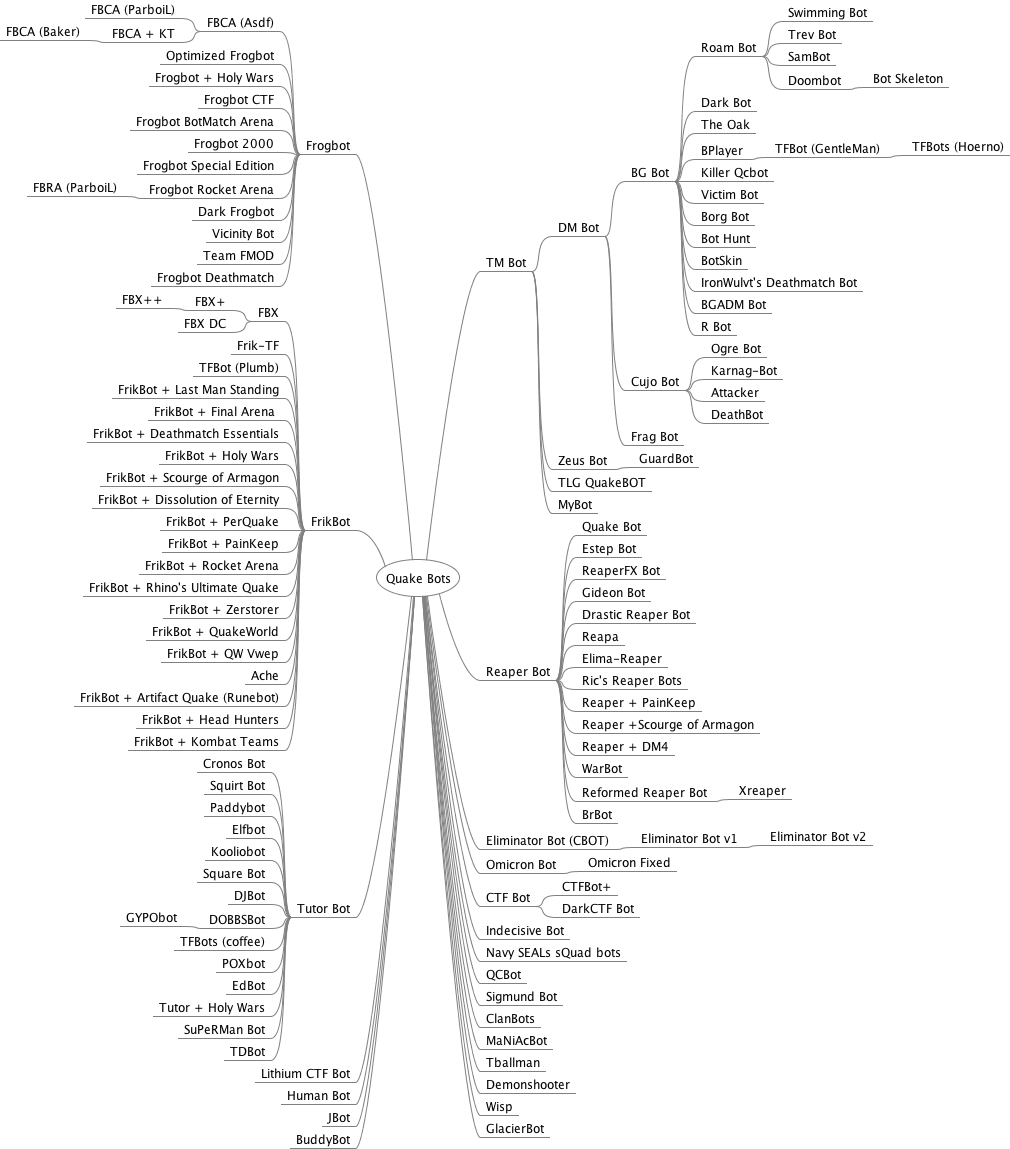
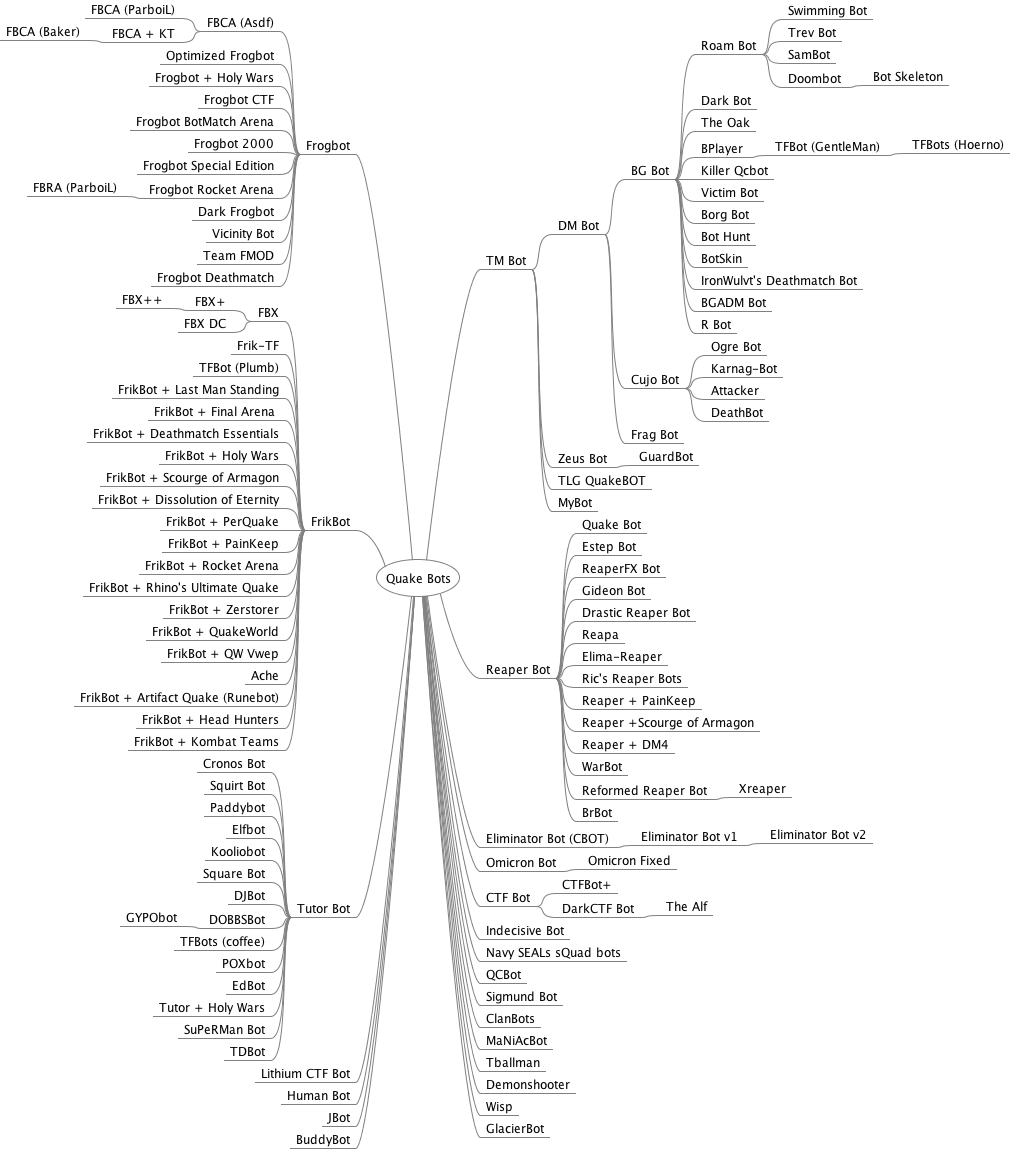
added The Alf

diff --git a/mindmap/QuakeBots.mm b/mindmap/QuakeBots.mm
@@ -70,7 +70,9 @@
 </node>
 <node CREATED="1622845045776" ID="ID_1986135603" MODIFIED="1622845048070" POSITION="right" TEXT="CTF Bot">
 <node CREATED="1622845697447" ID="ID_295541926" MODIFIED="1622845698926" TEXT="CTFBot+"/>
-<node CREATED="1622869025932" ID="ID_1714762036" MODIFIED="1622869314222" TEXT="DarkCTF Bot"/>
+<node CREATED="1622869025932" ID="ID_1714762036" MODIFIED="1622869314222" TEXT="DarkCTF Bot">
+<node CREATED="1624412666759" ID="ID_376907642" MODIFIED="1624412667481" TEXT="The Alf"/>
+</node>
 </node>
 <node CREATED="1622514920508" ID="ID_432501820" MODIFIED="1623200457048" POSITION="left" TEXT="Frogbot">
 <node CREATED="1622847095651" ID="ID_726455203" MODIFIED="1623196902129" TEXT="FBCA (Asdf)">

diff --git a/README.md b/README.md
@@ -131,6 +131,7 @@ Team Fortress Bots | Darryl Atchison aka "coffee" | [tf_bots07.zip](bin/tf_bots0
 TFBot | "Plumb" | ?
 TFBots | Joern Strombach aka "Hoerno" | [tfbot080.zip](bin/tfbot080.zip) (-)
 TFBots | Wolfgang Lehrach aka "GentleMan" | [tfbot077.zip](bin/tfbot077.zip) (-)<br>[TFBot076.zip](bin/TFBot076.zip)<br>tfb-v07.zip
+The Alf | Bjorn-Erik Solli aka "Jack O. Trade" | nnctf.zip<br>nnsource.zip
 The Lone Gunmen QuakeBOT (Larva) | James Cullen aka "Jaymz" and Chris Cullen aka "Incubus" | [tlgbot.zip](bin/tlgbot.zip)
 The Oak | John Crickett and Neil Henderson | [oak0405_fixed.zip](bin/oak0405_fixed.zip)<br>[oak0405.zip](bin/oak0405.zip)<br>oak0855.zip<br>oak085.zip<br>oak084.zip<br>oak083.zip
 TM Bot | Micheal Polucha and Tim Polucha | [tmbot11.zip](bin/tmbot11.zip)<br>[tmbot1.zip](bin/tmbot1.zip)
